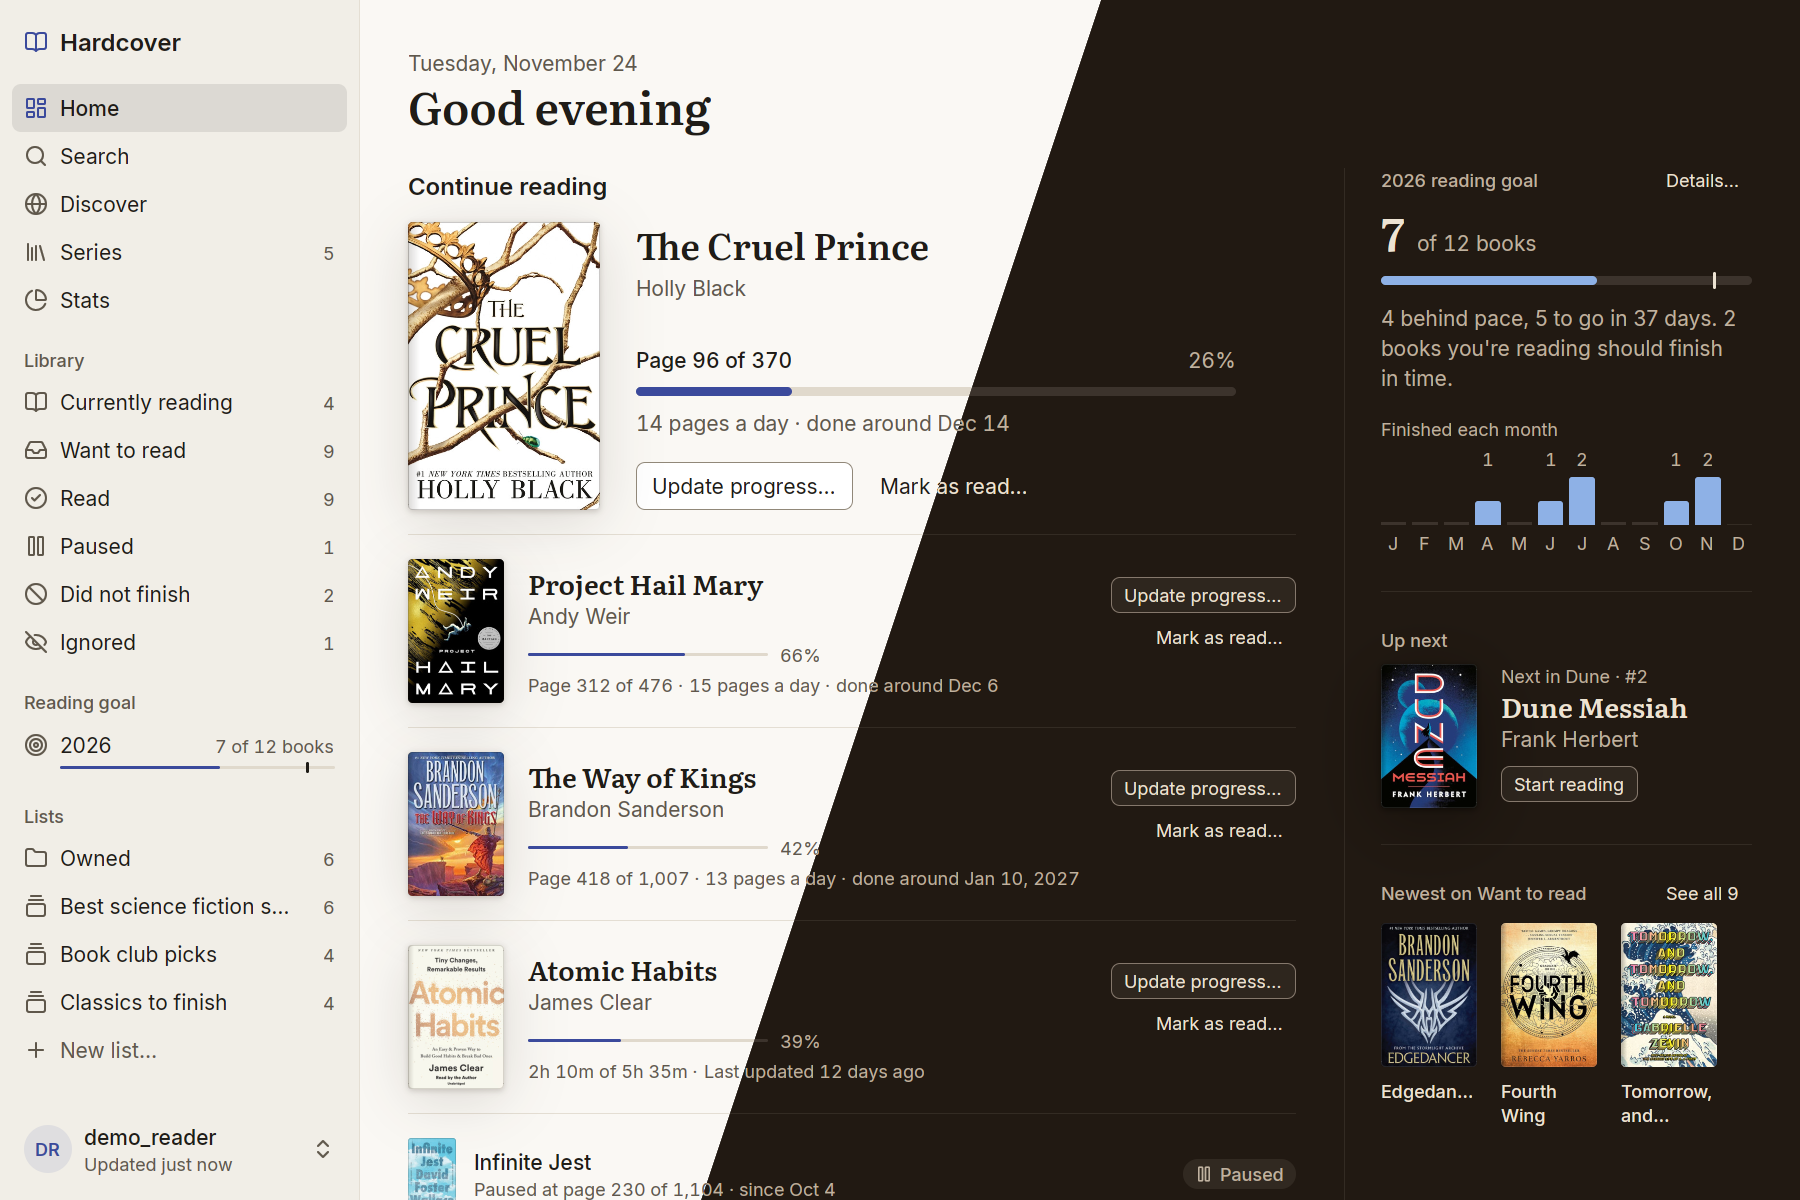
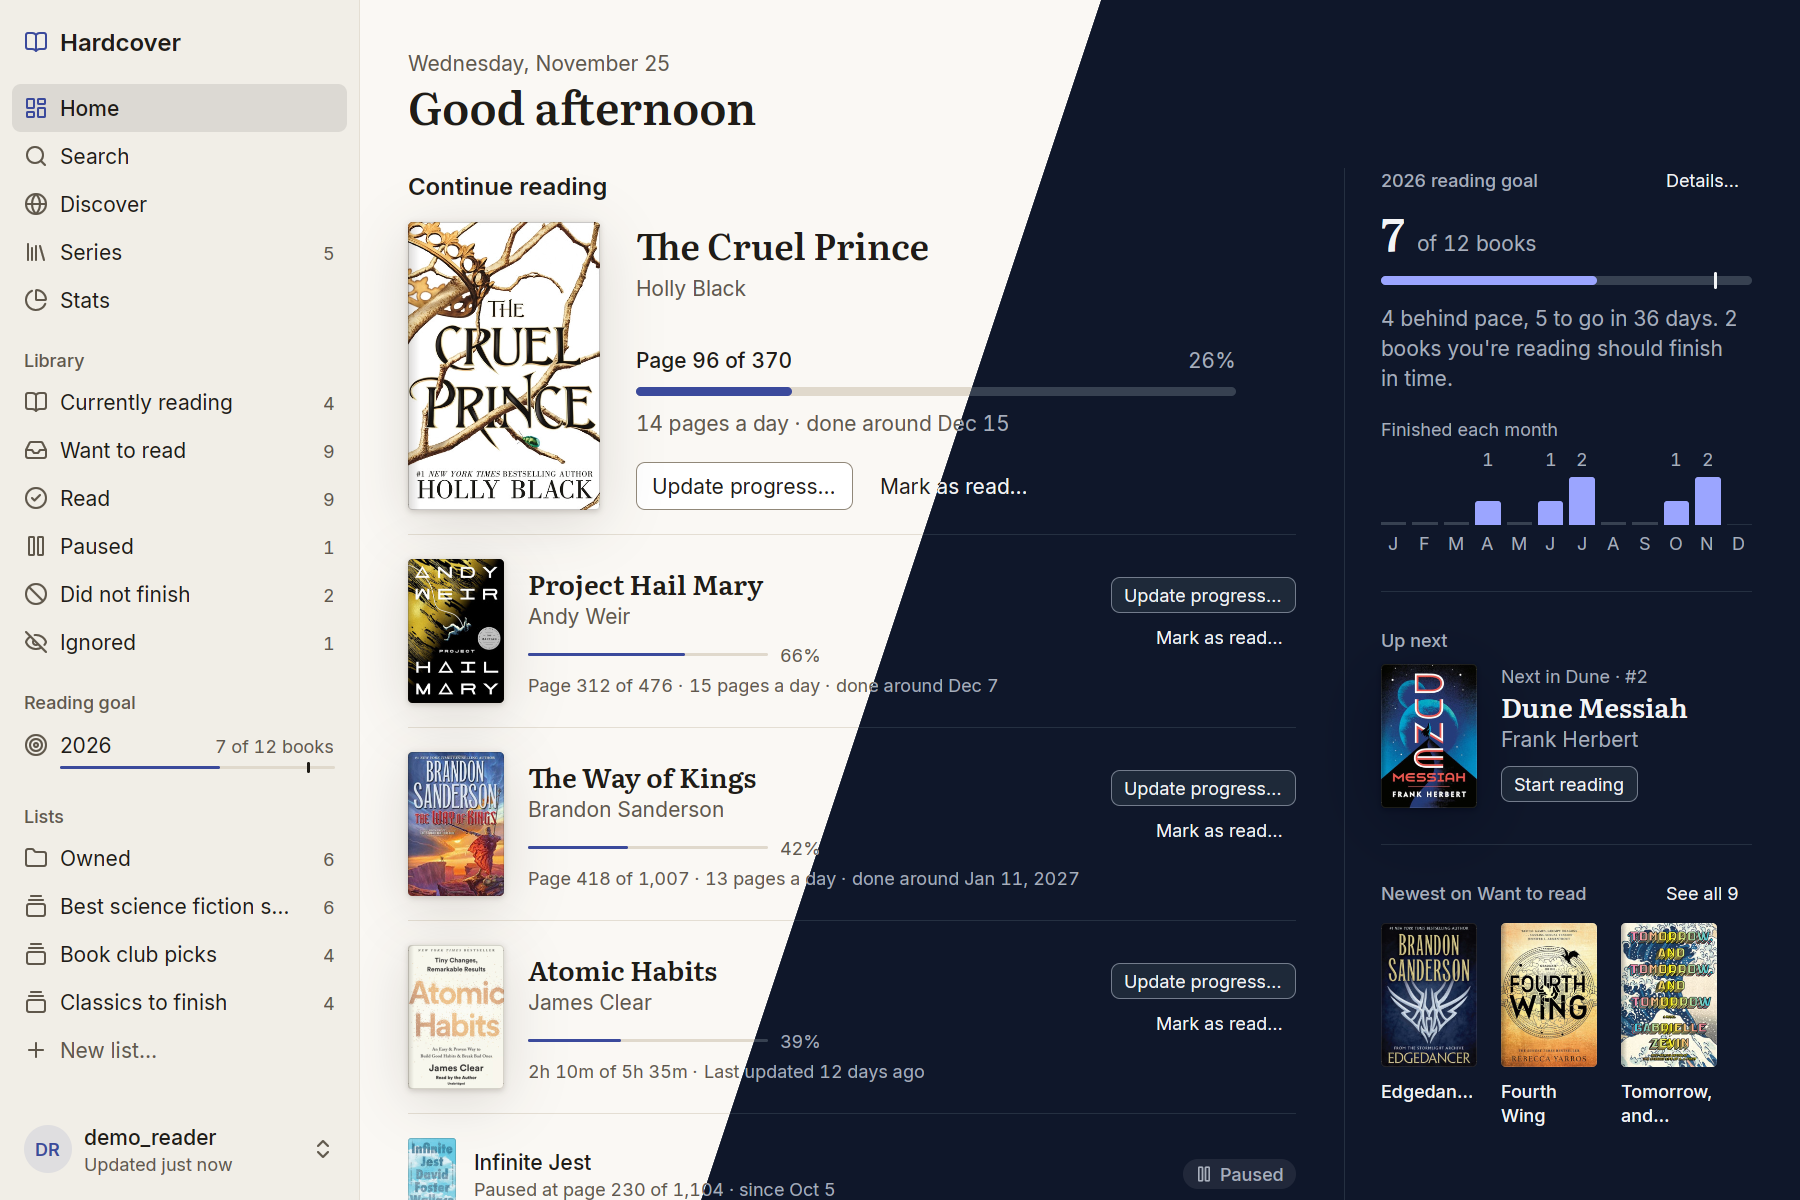
README: the dark screenshots in the Hardcover theme
The dark half of Home and the dark Library and Series shots now use
hardcover-dark (navy) instead of Paper's Lamplight. The light shots are
retaken the same day, so Home's two halves show the same state.

diff --git a/CLAUDE.md b/CLAUDE.md
@@ -294,7 +294,7 @@ The workspace has two crates, in `crates/*`.
 
 ## Screenshots
 
-`docs/screenshots/` holds the README's screenshots, in light and dark. Take them from the demo build (`--features demo`, with `HARDCOVER_THEME=paper-light` or `paper-dark`: the default theme, Paper, whose dark palette is Lamplight), never from a real account:
+`docs/screenshots/` holds the README's screenshots, in light and dark. Take them from the demo build (`--features demo`, with `HARDCOVER_THEME=paper-light` for light, the default theme, and `hardcover-dark` for dark, the Hardcover theme's navy), never from a real account:
 - Use a 1200×800 floating window and capture just the window, at its scale factor. Run with `HARDCOVER_UI_SCALE=1`, so a large monitor doesn't scale the interface (`ui_scale`).
 - The demo downloads its covers, so it needs the network. Wait until every visible cover has loaded before capturing.
 - Resizing the window after launch squeezes the library's list toward its minimum width. Drag the divider back to its default of 24rem before capturing.
